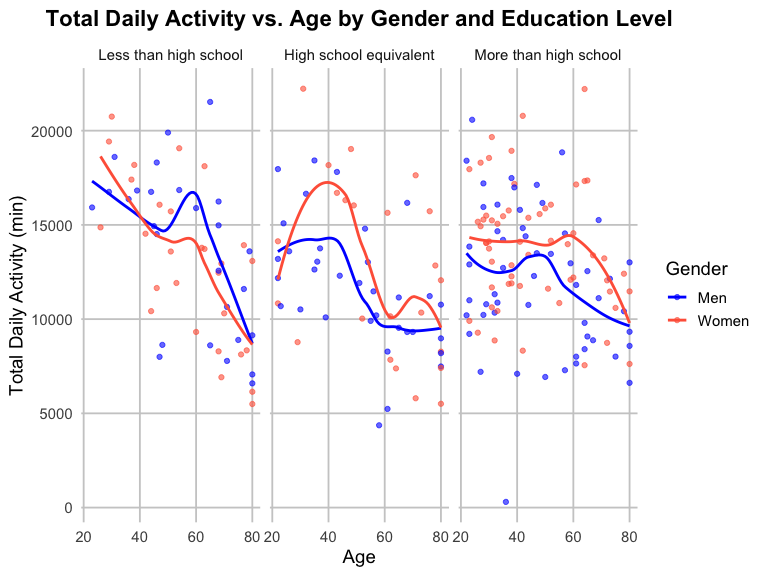
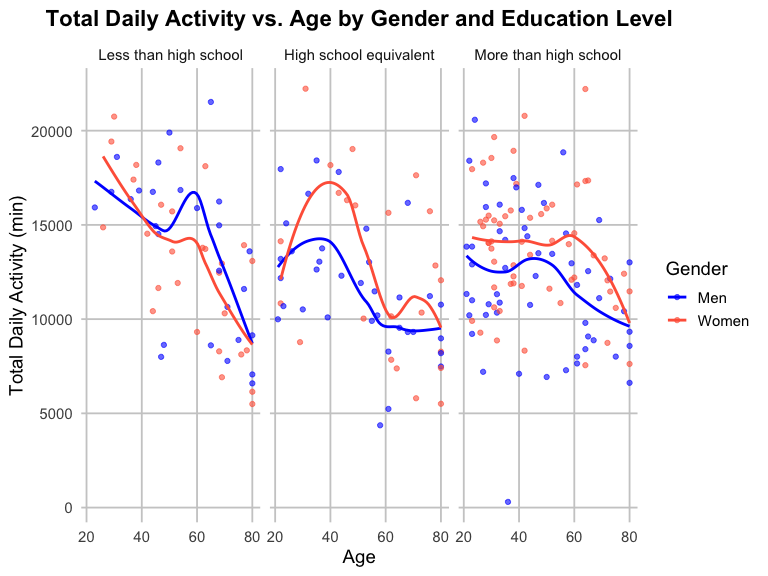
upgrade the code and results

diff --git a/P8105_hw3_yc4588.md b/P8105_hw3_yc4588.md
@@ -233,7 +233,7 @@ nhanes_covar =
 nhanes = 
   nhanes_accel |> 
   left_join(nhanes_covar, by = "seqn") |>
-  filter(age > 21) |>
+  filter(age >= 21) |>
   mutate(
     sex = factor(sex, levels = c("Male", "Female")),
     education = factor(education, levels = c(
@@ -244,7 +244,7 @@ nhanes =
   select(seqn, sex, age, bmi, education, everything())
 ```
 
-- The merged dataset contains 225 rows and 1445 columns. Variables
+- The merged dataset contains 228 rows and 1445 columns. Variables
   include seqn, sex, age, bmi, education, and accelerometer data.
 
 ## Create table for the number of men and women in each education category
@@ -269,8 +269,8 @@ education_gender_table <- nhanes |>
 | education              | Male | Female |
 |:-----------------------|-----:|-------:|
 | Less than high school  |   27 |     28 |
-| High school equivalent |   34 |     23 |
-| More than high school  |   54 |     59 |
+| High school equivalent |   35 |     23 |
+| More than high school  |   56 |     59 |
 
 - The numbers of men (27) and women (28) are quite similar for the
   category of less than high school, indicating comparable
